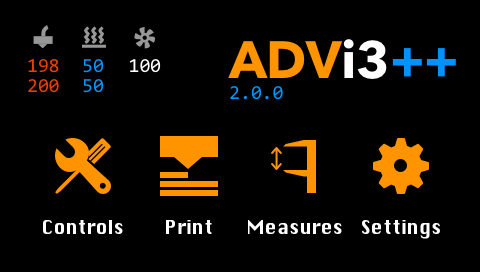
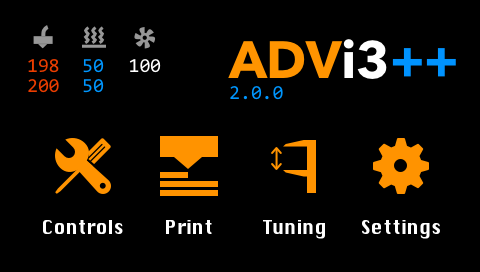
Replace "Measures" by "Tuning"

Changed region(s): [[0.5, 0.7941, 0.7188, 0.8824]]

diff --git a/LCD-Touch-Screen-Manual.md b/LCD-Touch-Screen-Manual.md
@@ -12,7 +12,7 @@
 * **Version**: Displays the version number of ADVi3++. Taps on this area to show an About panel with information about the release installed.
 * **Controls**: Taps on this button to display the **Controls** panel with tools such as Load and Unload Filament, Move, etc.
 * **Print**: Taps on this button to display the **Print** panel (if your are printing) or the Temperature graph (if you are not).
-* **Measures**: Taps on this button to display the **Measures** panel with tools to help you adjust some parameters of your printer.
+* **Tuning**: Taps on this button to display the **Tuning** panel with tools to help you adjust some parameters of your printer.
 * **Settings**: Taps on this button to display the **Settings** panel. In this panel, you can view and modify several parameters of the printer.
 
 ## Controls
@@ -128,7 +128,7 @@ The **USB Print** screen is displayed only when a print is running through the U
 * **Back**: If you press the **Back** button, the printing continues and it goes back to the previous screen.
 
 
-## Measures
+## Tuning
 
 ![](assets/026_calibration.png)
 
